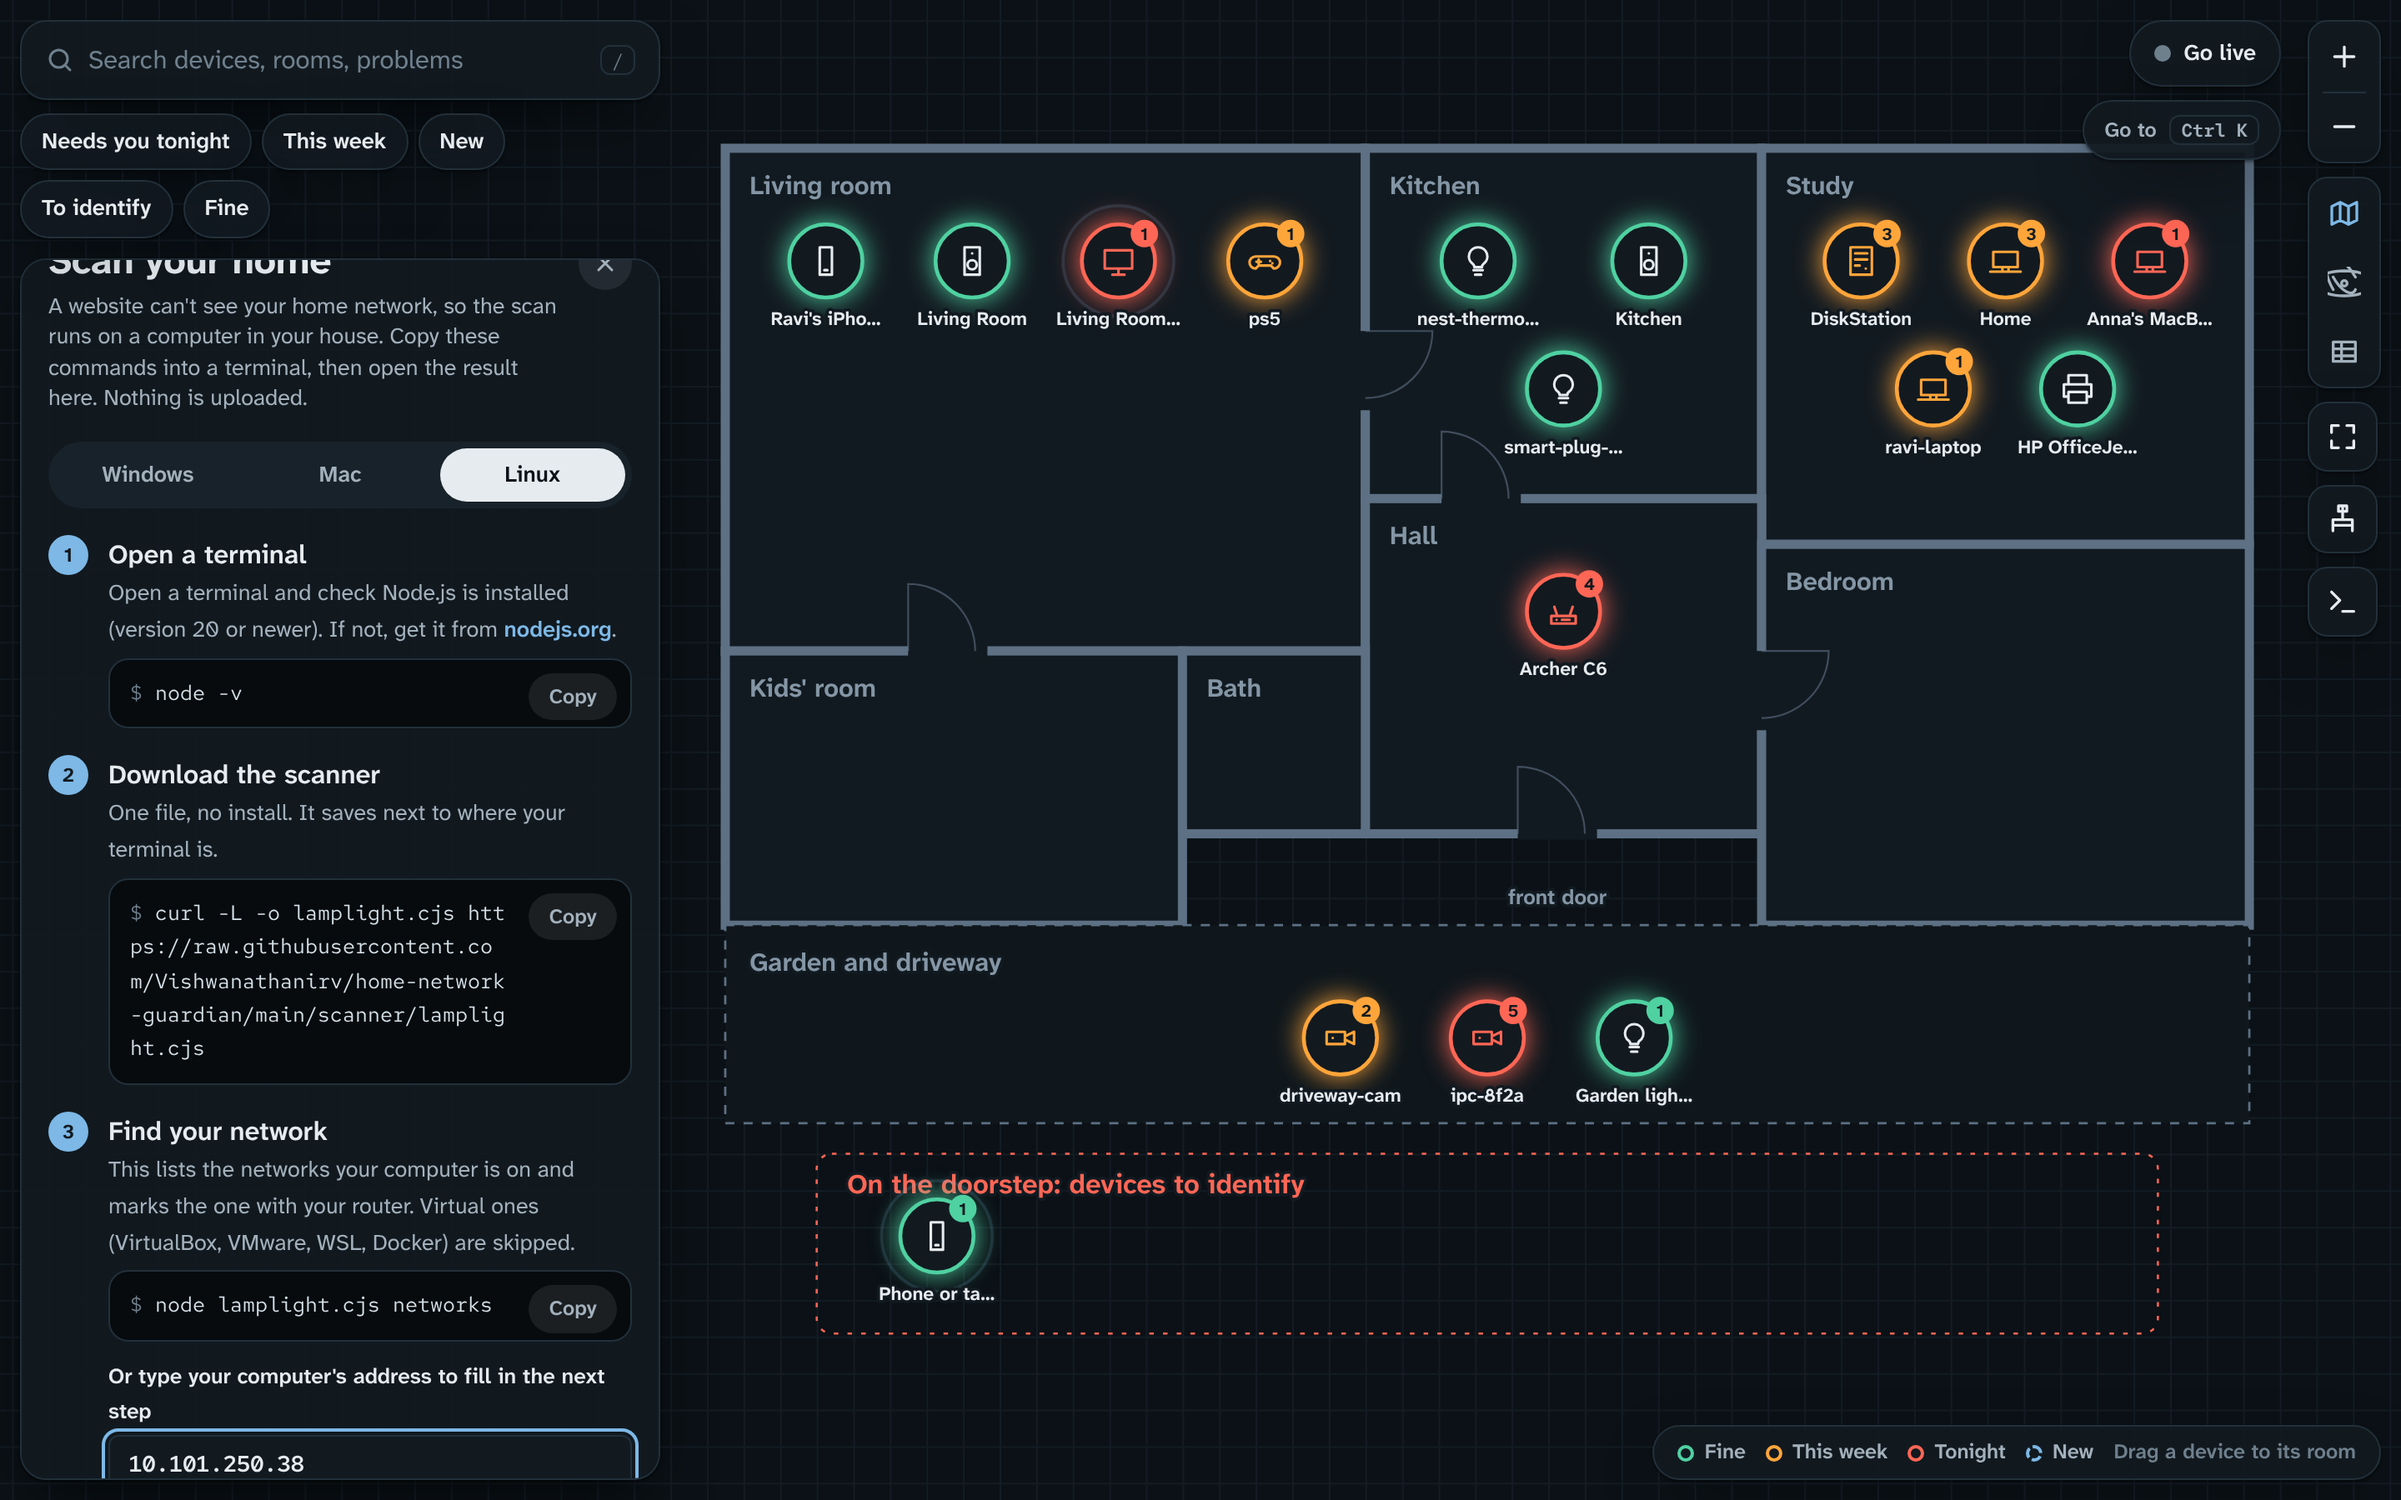
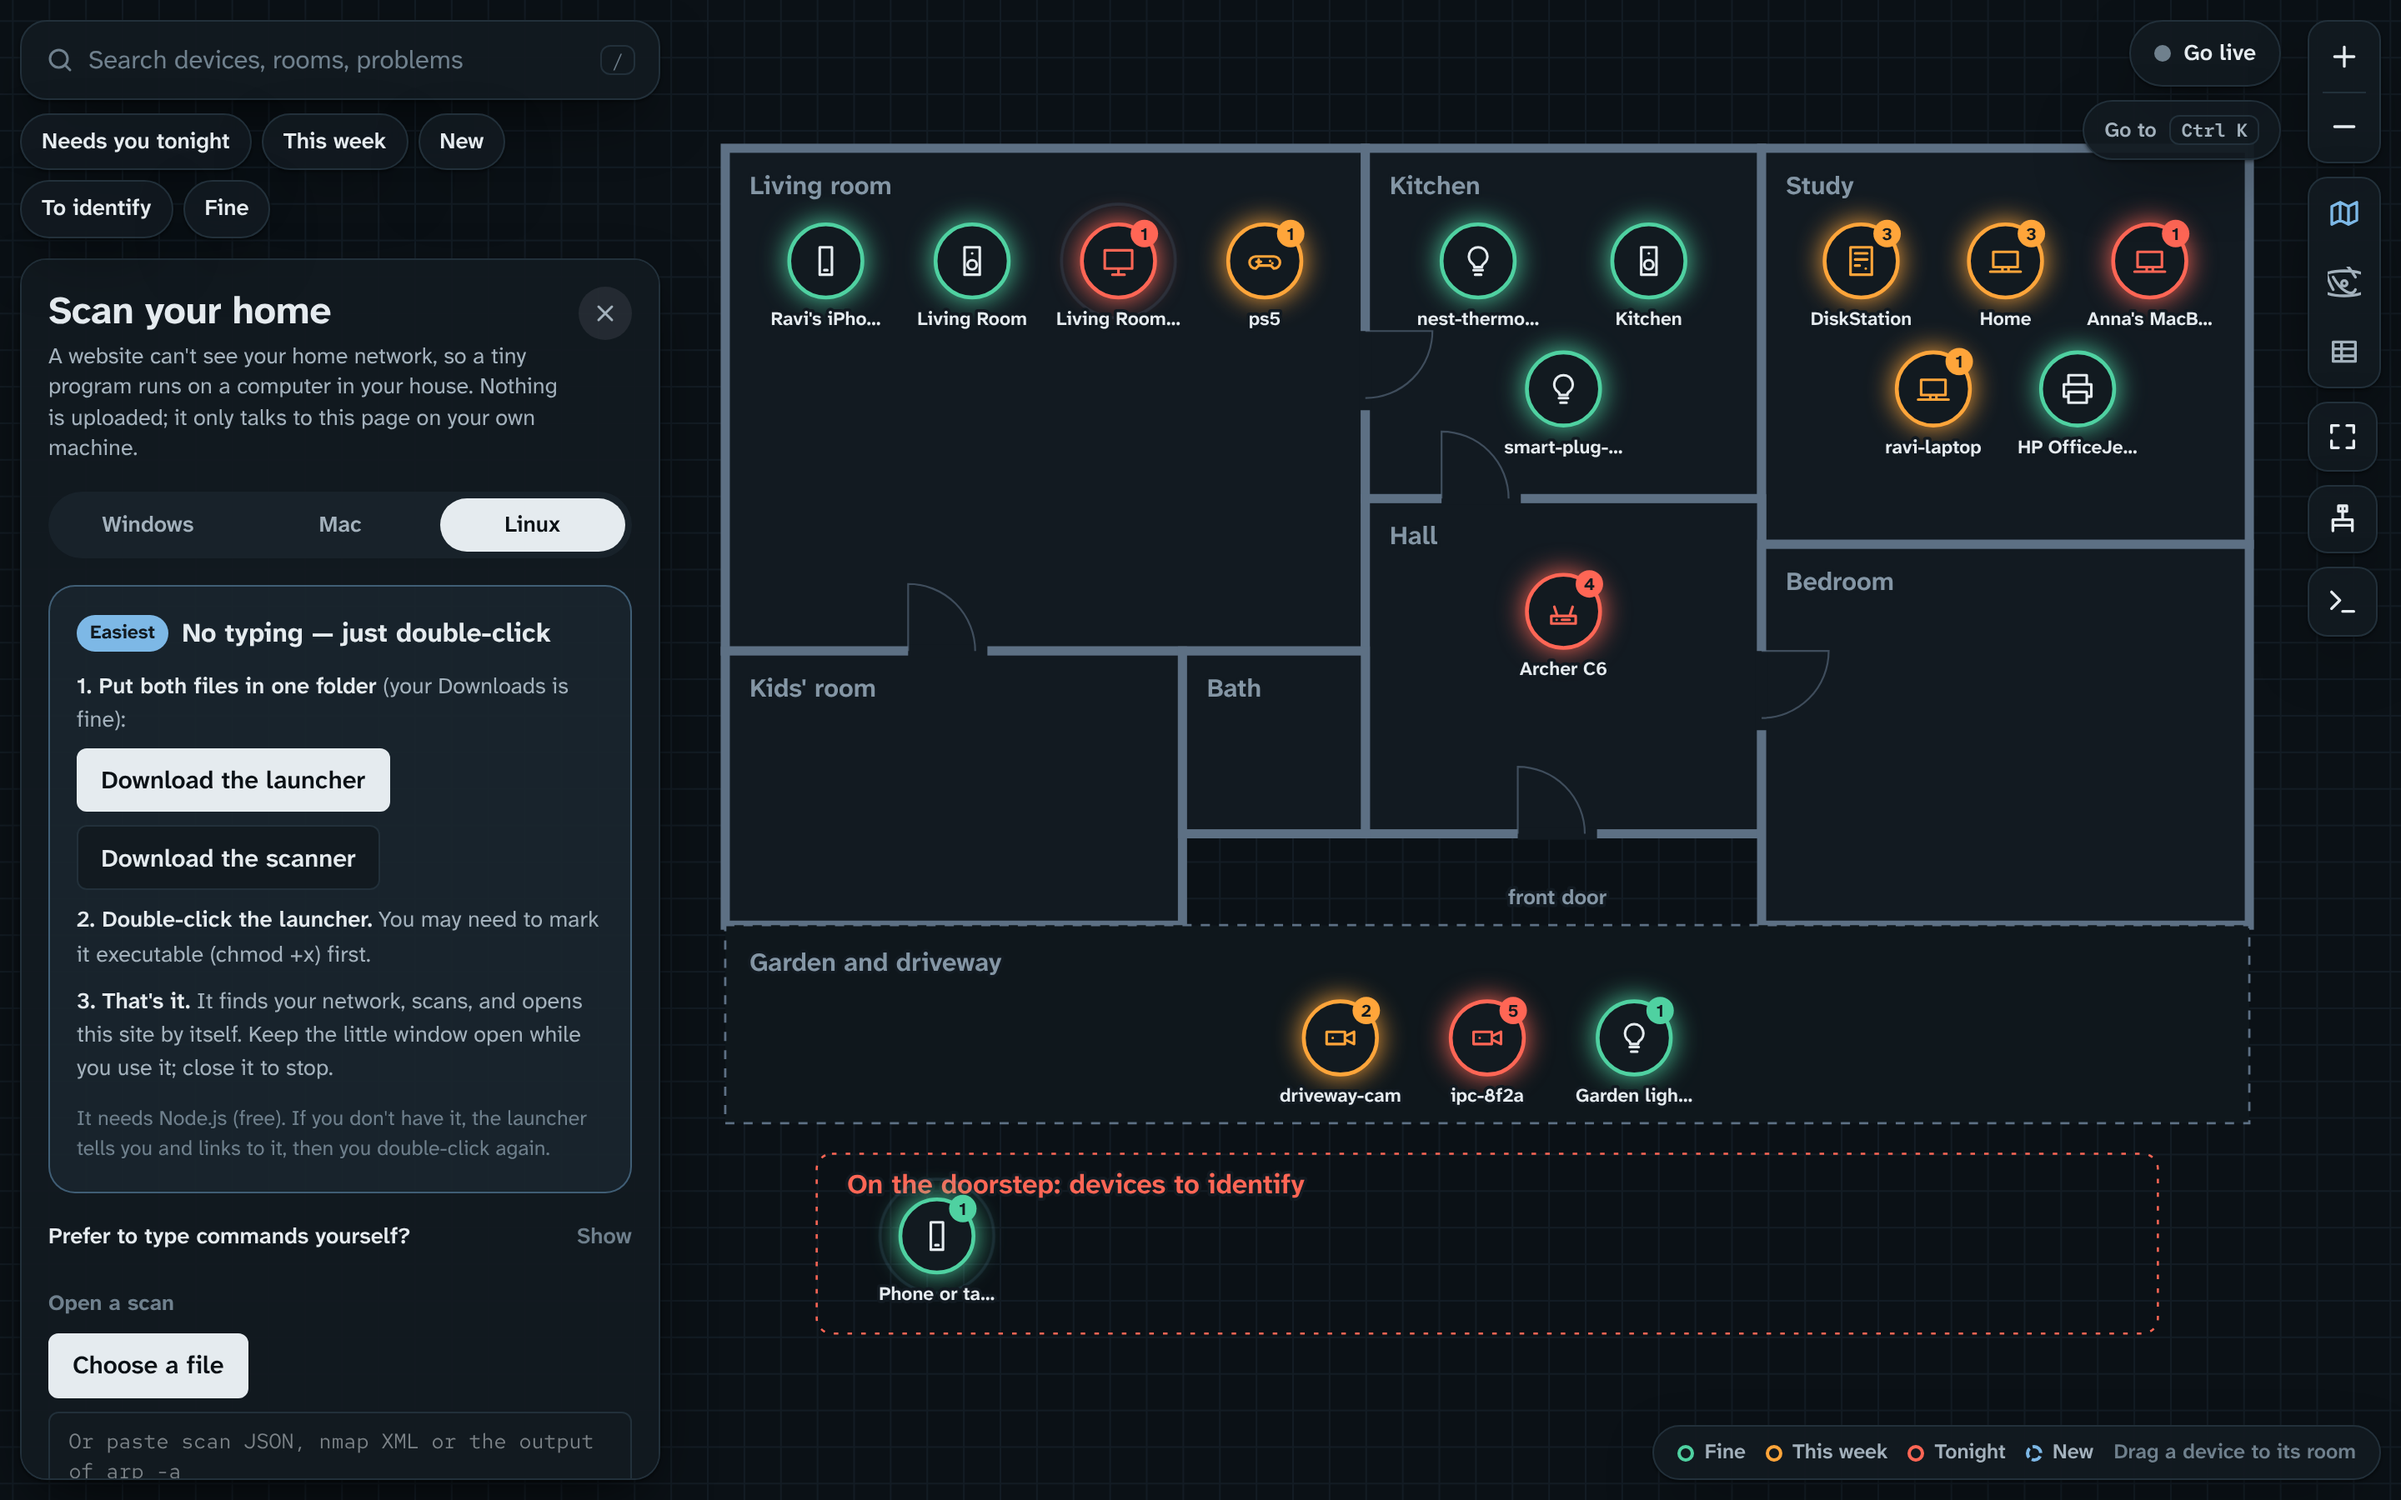
Remove the command line: a double-click launcher that scans and opens the site
Add Windows (.cmd) and Mac (.command) launchers that run the scanner's
live mode with no typing, and have the scanner open the browser to the
live link by itself. The Scan page now leads with a two-download,
double-click path and keeps the terminal commands behind a toggle. Scan
also prints the full saved path.

Changed region(s): [[0.0, 0.1556, 0.2812, 0.9956]]

diff --git a/apps/web/src/run.tsx b/apps/web/src/run.tsx
@@ -5,7 +5,13 @@ import { CopyButton } from "./device";
 import { addScan, removeScan, setActive, useActive, useScans } from "./lib";
 import { Section, SubHeader } from "./sheets";
 
-const RAW = "https://raw.githubusercontent.com/Vishwanathanirv/home-network-guardian/main/scanner/lamplight.cjs";
+const RAW_BASE = "https://raw.githubusercontent.com/Vishwanathanirv/home-network-guardian/main/scanner";
+const RAW = `${RAW_BASE}/lamplight.cjs`;
+const LAUNCHER: Record<Os, { file: string; name: string }> = {
+  windows: { file: "lamplight-windows.cmd", name: "Windows launcher" },
+  mac: { file: "lamplight-mac.command", name: "Mac launcher" },
+  linux: { file: "lamplight-mac.command", name: "launcher" },
+};
 export type Os = "windows" | "mac" | "linux";
 const OS_NAME: Record<Os, string> = { windows: "Windows", mac: "Mac", linux: "Linux" };
 
@@ -57,6 +63,7 @@ export function ScansSheet({ onClose }: { onClose: () => void }) {
   const active = useActive();
   const navigate = useNavigate();
   const [os, setOs] = useState<Os>(guessOs);
+  const [showCmd, setShowCmd] = useState(false);
   const [addr, setAddr] = useState("");
   const [text, setText] = useState("");
   const [error, setError] = useState<string | null>(null);
@@ -79,7 +86,7 @@ export function ScansSheet({ onClose }: { onClose: () => void }) {
   return (
     <div>
       <SubHeader title="Scan your home" onClose={onClose}>
-        <p className="mt-1 text-[13.5px] leading-snug text-muted">A website can't see your home network, so the scan runs on a computer in your house. Copy these commands into a terminal, then open the result here. Nothing is uploaded.</p>
+        <p className="mt-1 text-[13.5px] leading-snug text-muted">A website can't see your home network, so a tiny program runs on a computer in your house. Nothing is uploaded; it only talks to this page on your own machine.</p>
       </SubHeader>
 
       <div className="mt-4 flex gap-1 rounded-full bg-panel-2 p-1" role="tablist" aria-label="Your computer">
@@ -90,6 +97,40 @@ export function ScansSheet({ onClose }: { onClose: () => void }) {
         ))}
       </div>
 
+      {/* The no-typing path: two downloads and a double-click. */}
+      <div className="mt-4 rounded-2xl border border-accent/40 bg-[color-mix(in_oklab,var(--accent)_7%,transparent)] p-4">
+        <div className="flex items-center gap-2">
+          <span className="rounded-full bg-accent px-2 py-0.5 text-[11.5px] font-bold text-panel">Easiest</span>
+          <h3 className="font-bold">No typing — just double-click</h3>
+        </div>
+        <ol className="mt-2.5 space-y-2 text-[13.5px] text-muted">
+          <li>
+            <span className="font-semibold text-ink">1. Put both files in one folder</span> (your Downloads is fine):
+            <div className="mt-1.5 flex flex-wrap gap-2">
+              <a className="btn primary" href={`${RAW_BASE}/${LAUNCHER[os].file}`} download={LAUNCHER[os].file}>
+                Download the {LAUNCHER[os].name}
+              </a>
+              <a className="btn" href={RAW} download="lamplight.cjs">
+                Download the scanner
+              </a>
+            </div>
+          </li>
+          <li>
+            <span className="font-semibold text-ink">2. Double-click the {OS_NAME[os] === "Linux" ? "launcher" : `${OS_NAME[os]} launcher`}.</span>{" "}
+            {os === "windows" ? 'Windows may warn about an unknown file; choose "More info", then "Run anyway".' : os === "mac" ? 'The first time, right-click it and choose "Open", then "Open" again (macOS guards downloaded files).' : "You may need to mark it executable (chmod +x) first."}
+          </li>
+          <li>
+            <span className="font-semibold text-ink">3. That's it.</span> It finds your network, scans, and opens this site by itself. Keep the little window open while you use it; close it to stop.
+          </li>
+        </ol>
+        <p className="mt-2.5 text-[12.5px] text-faint">It needs Node.js (free). If you don't have it, the launcher tells you and links to it, then you double-click again.</p>
+      </div>
+
+      <button className="mt-4 flex w-full items-center justify-between text-[13.5px] font-semibold" onClick={() => setShowCmd(!showCmd)} aria-expanded={showCmd}>
+        <span>Prefer to type commands yourself?</span>
+        <span className="text-faint">{showCmd ? "Hide" : "Show"}</span>
+      </button>
+      {showCmd && (
       <ol className="mt-4 space-y-4">
         <Step n={1} title={`Open a terminal`}>
           {os === "windows" ? (
@@ -136,6 +177,7 @@ export function ScansSheet({ onClose }: { onClose: () => void }) {
           It saves a file named like <code className="font-mono text-ink">lamplight-{new Date().toISOString().slice(0, 10)}.json</code>. Choose it below.
         </Step>
       </ol>
+      )}
 
       <Section title="Open a scan">
         <div className="flex flex-wrap gap-2">

diff --git a/packages/scanner/src/cli.ts b/packages/scanner/src/cli.ts
@@ -1,3 +1,4 @@
+import { spawn } from "node:child_process";
 import { readFileSync, writeFileSync } from "node:fs";
 import { resolve } from "node:path";
 import { parseArgs } from "node:util";
@@ -7,6 +8,16 @@ import { startLive } from "./live";
 import { defaultGateway, interfaces, pickNetwork, scanNetwork } from "./net";
 
 setOui(oui as OuiTable);
+
+/** Opens a link in the computer's default browser, so no one has to copy a URL. Best effort. */
+function openBrowser(url: string) {
+  const [cmd, args] = process.platform === "win32" ? ["cmd", ["/c", "start", "", url]] : process.platform === "darwin" ? ["open", [url]] : ["xdg-open", [url]];
+  try {
+    spawn(cmd, args, { stdio: "ignore", detached: true, windowsHide: true }).on("error", () => {}).unref();
+  } catch {
+    /* no browser to open; the printed link still works */
+  }
+}
 
 const HELP = `Lamplight: find every device on your home network and what's risky about it.
 
@@ -86,7 +97,7 @@ const describe = (ch: Change) => {
 };
 
 export async function main(argv = process.argv.slice(2)): Promise<number> {
-  const { values, positionals } = parseArgs({ args: argv, allowPositionals: true, options: { network: { type: "string" }, out: { type: "string" }, ports: { type: "string" }, json: { type: "boolean" }, every: { type: "string" }, port: { type: "string" }, site: { type: "string" }, help: { type: "boolean", short: "h" } } });
+  const { values, positionals } = parseArgs({ args: argv, allowPositionals: true, options: { network: { type: "string" }, out: { type: "string" }, ports: { type: "string" }, json: { type: "boolean" }, every: { type: "string" }, port: { type: "string" }, site: { type: "string" }, open: { type: "boolean" }, "no-open": { type: "boolean" }, help: { type: "boolean", short: "h" } } });
   const [cmd, ...files] = positionals;
   if (values.help || !cmd) {
     process.stdout.write(HELP);
@@ -116,6 +127,11 @@ export async function main(argv = process.argv.slice(2)): Promise<number> {
       throw new Error(e.code === "EADDRINUSE" ? `Port ${port} is busy. Is live mode already running? Or pick another with --port.` : e.message);
     });
     process.stdout.write(`\n${c("1", "Lamplight is watching")} ${cidr}. Full scan every ${every} minutes, a quick check every 15 seconds.\n\nOpen this link to see it live (keep it private, it has your key):\n\n  ${c("36", `${site}/?live=${port}&key=${live.key}`)}\n\nLive mode shows everything on the site as it happens; it does not save a file. For a file to open later, use "${c("1", "node lamplight.cjs scan")}" instead.\nThe first scan takes about a minute. Press Ctrl+C to stop.\n\n`);
+    const link = `${site}/?live=${port}&key=${live.key}`;
+    if (!values["no-open"]) {
+      process.stderr.write("Opening it in your browser…\n");
+      setTimeout(() => openBrowser(link), 500);
+    }
     await new Promise<void>((resolve) => process.once("SIGINT", resolve));
     live.stop();
     process.stdout.write("\nStopped.\n");

diff --git a/e2e/demo.spec.ts b/e2e/demo.spec.ts
@@ -79,6 +79,10 @@ test("the network page grades the whole home, and the scan page has the commands
 
   await page.goto("/scans");
   await page.getByRole("tab", { name: "Windows" }).click();
+  // The no-typing path leads, with a double-click launcher to download.
+  await expect(details(page).getByRole("link", { name: /Download the Windows launcher/ })).toHaveAttribute("href", /lamplight-windows\.cmd$/);
+  // The terminal commands are still there for people who want them.
+  await page.getByRole("button", { name: /Prefer to type commands/ }).click();
   await page.getByLabel("Your computer's address").fill("10.101.250.38");
   await expect(details(page).getByText("node lamplight.cjs scan --network 10.101.250.0/24").first()).toBeVisible();
   await expect(details(page).getByText(/curl\.exe -L -o lamplight\.cjs/)).toBeVisible();

diff --git a/README.md b/README.md
@@ -26,6 +26,7 @@ Many homes now have more than a dozen connected devices, and few people could na
 - **Shows the whole network.** The grade, the router, the weakest devices, what's on the network, who made it all and which services answer, plus a report you can download and keep.
 - **Keeps a to-do list.** Tick a problem off when you've fixed it: the device's badge on the plan updates and a progress bar shows how far you've got.
 - **Names devices by what they are.** Cheap smart bulbs and plugs all share one chip maker ("Espressif"), so instead of a wall of identical names Lamplight labels them by type and numbers them — "Smart home gadget 3" — and uses the real name when a device announces one ("Living Room TV"). Each device shows its model and, in a word, what it's busy doing (streaming, printing, sharing files).
+- **No command line needed.** Download two files and double-click a launcher: it finds your network, scans, and opens the site by itself. The terminal commands are still there for anyone who wants them.
 - **An atom view.** Switch the house plan for a living network graph: your router is the nucleus and every device orbits it on a shell grouped by kind, bonds drawn to the centre, risky ones glowing red. Hover any node for its name, model, address and what it's doing.
 - **Finds things fast.** Search by name, maker, room, address or problem ("camera", "kitchen", "telnet"), or tap a filter like *Needs you tonight* or *To identify*. Everything else on the plan fades out. Ctrl K jumps to any device or action, and a table view lists every device side by side, sortable and downloadable as CSV.
 - **Notices change.** Compare two scans to see who joined, who left, and what started answering. The scanner exits with code 1 when a new device joins, so a nightly cron job can email you.
@@ -76,7 +77,7 @@ node lamplight.cjs live                            # keep watching, and see it l
 node lamplight.cjs demo                            # the example home, to try it without scanning
 ```
 
-Download it with `curl -L -o lamplight.cjs https://raw.githubusercontent.com/Vishwanathanirv/home-network-guardian/main/scanner/lamplight.cjs` (on Windows, `curl.exe`). The site's **Scan your home** panel lists every command for Windows, Mac and Linux, filled in with your network.
+The site's **Scan your home** panel has a no-typing path (download the launcher + the scanner, double-click the launcher) and, for anyone who prefers it, every terminal command filled in with your own network. The launcher just runs `lamplight live` for you and opens your browser.
 
 How it scans:
 
